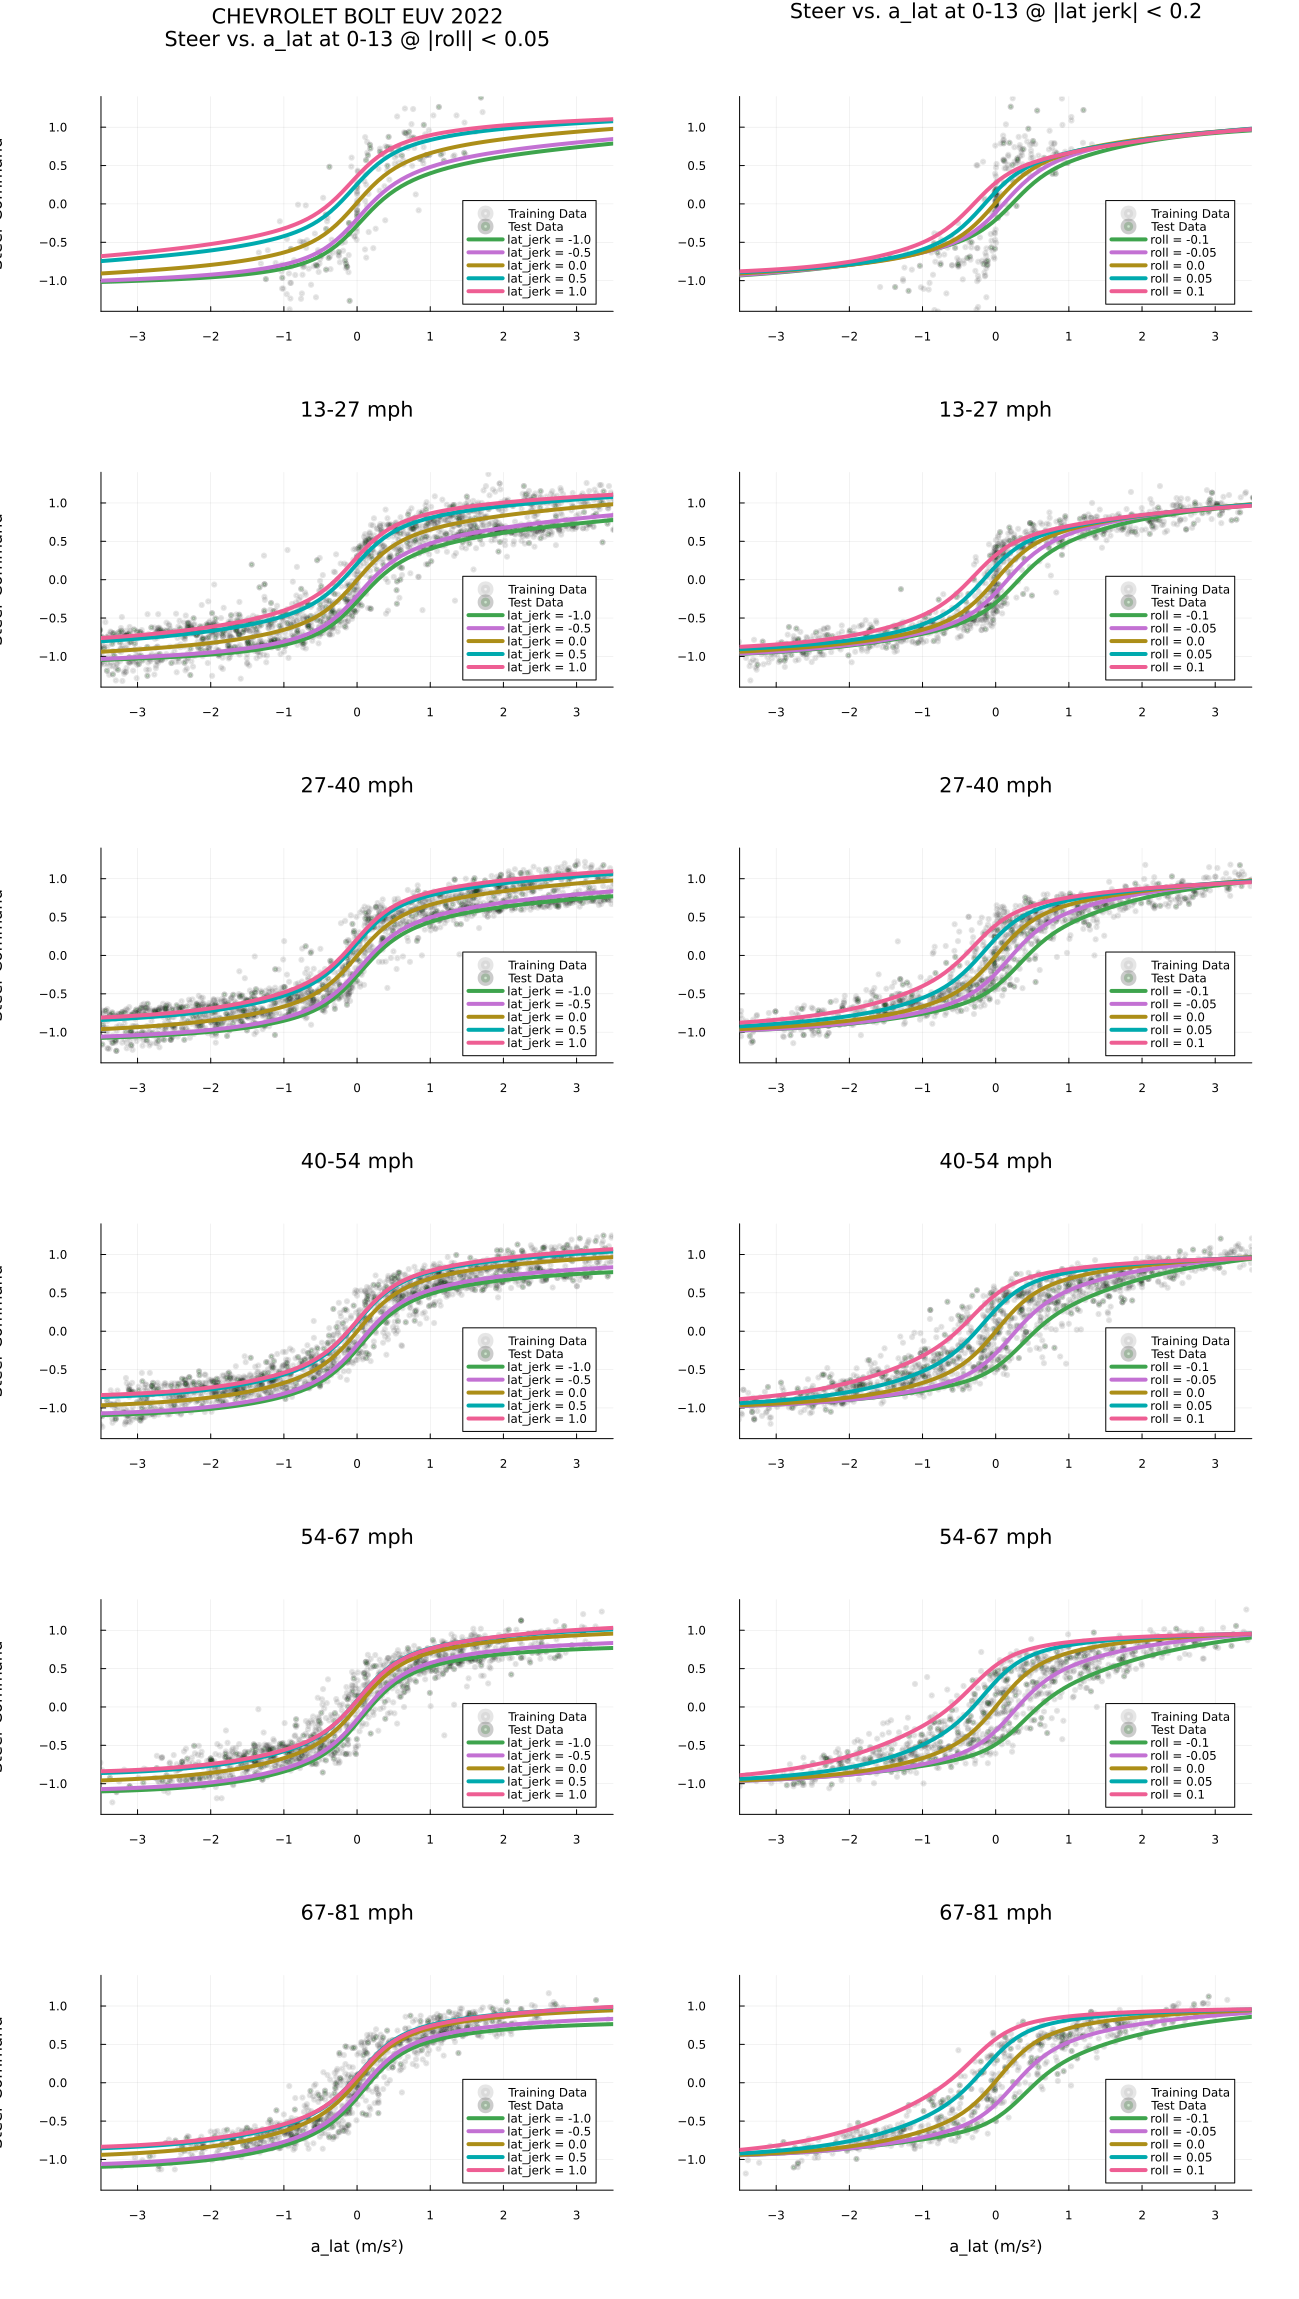
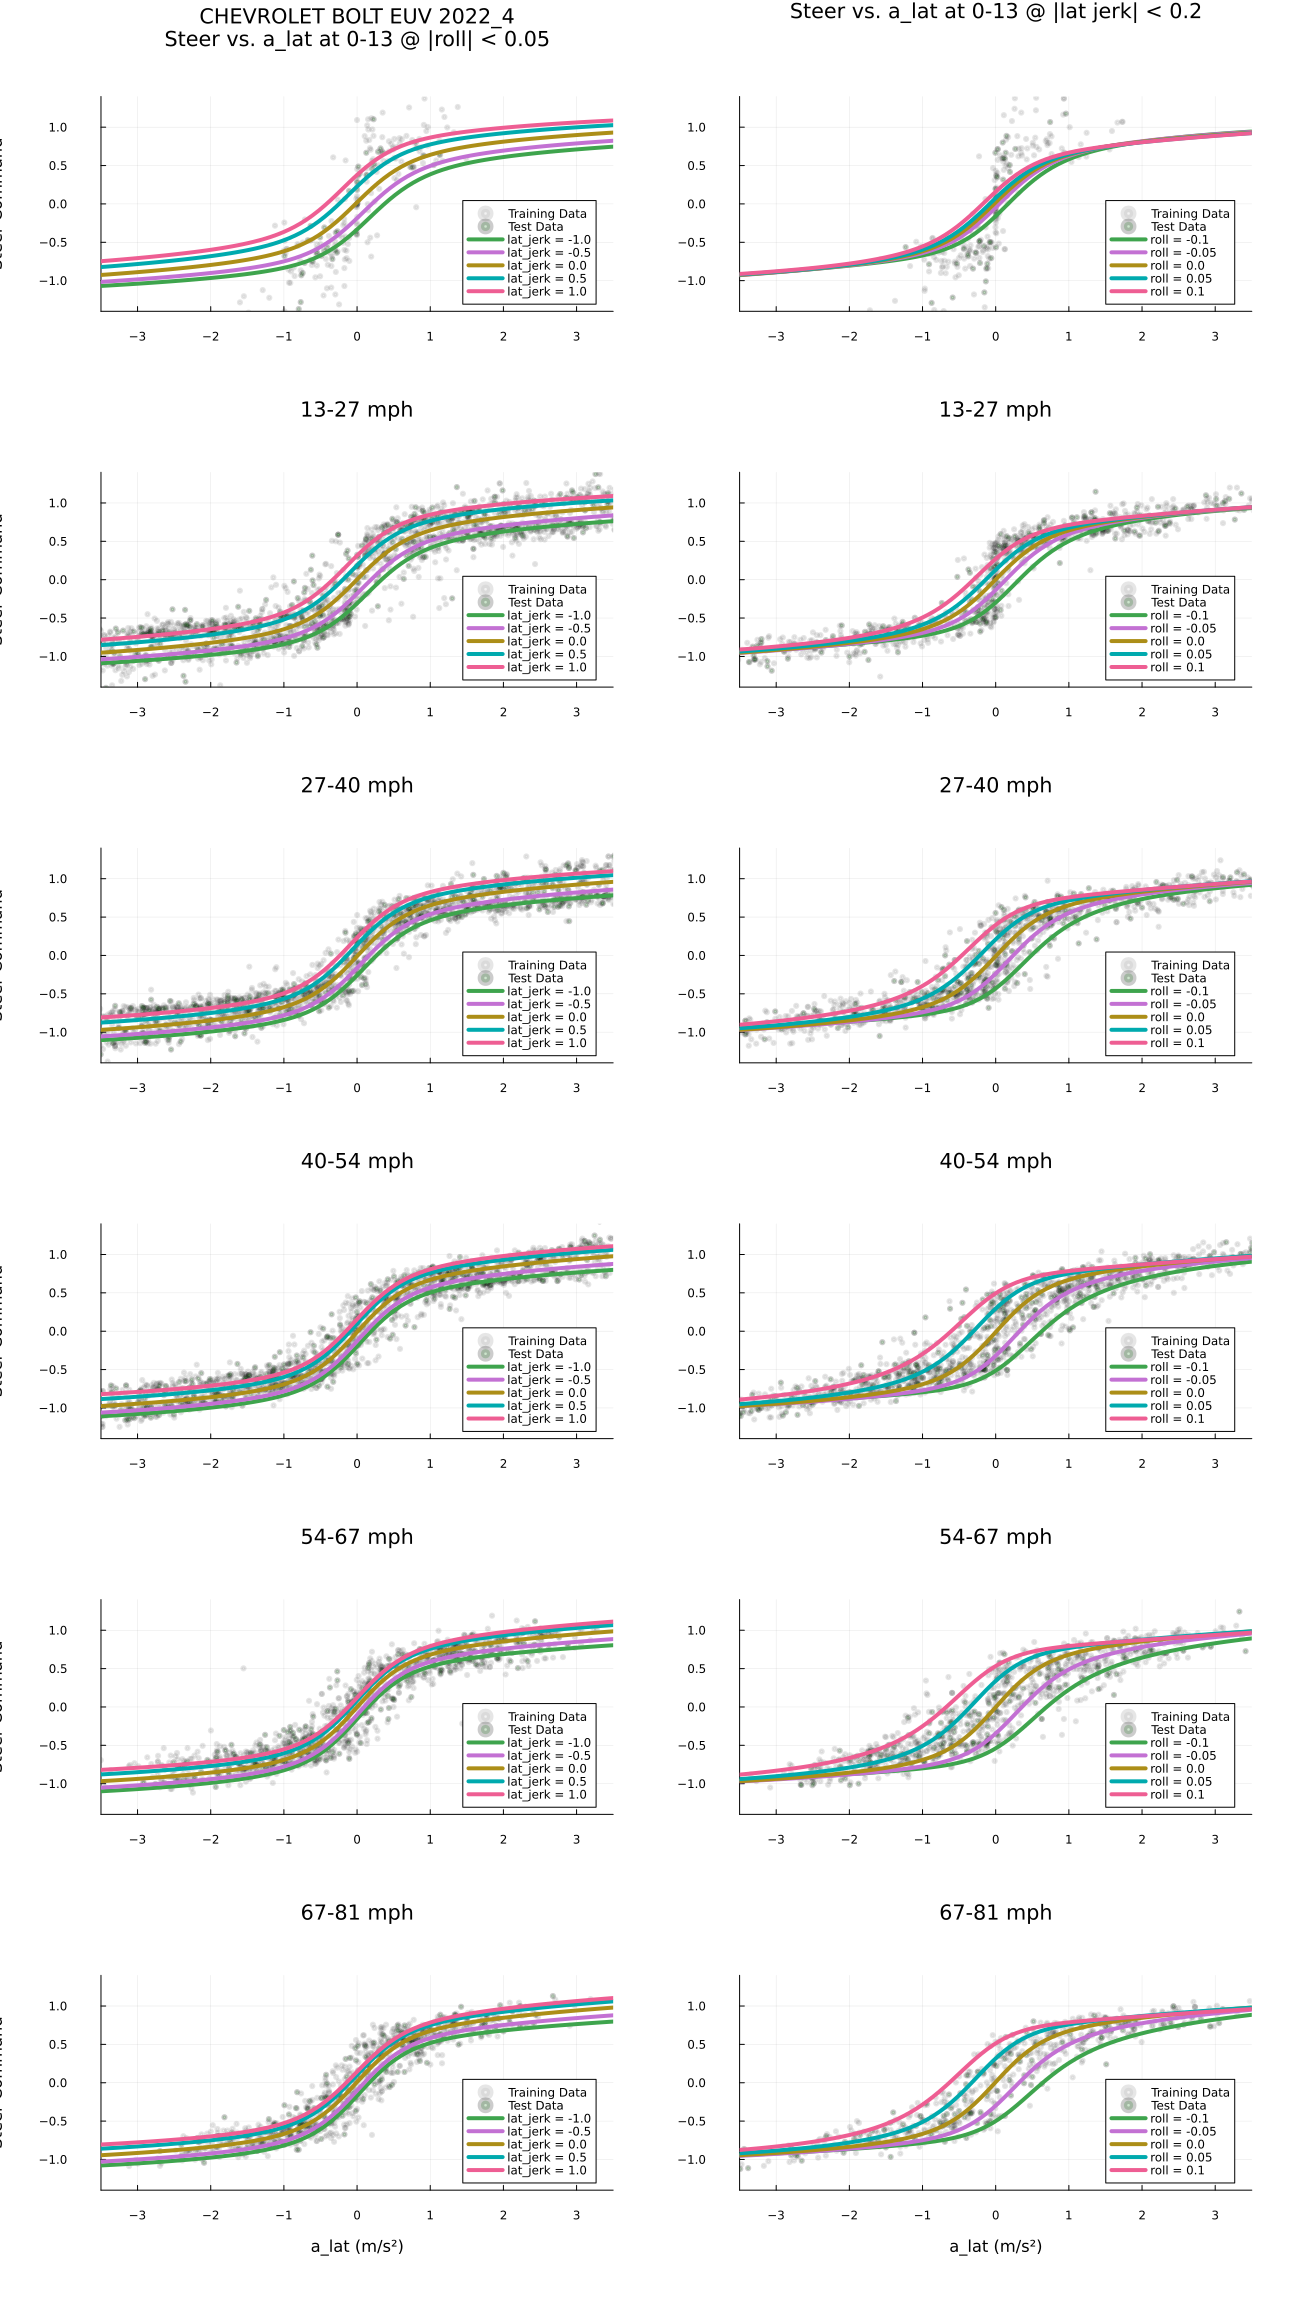
torque nnff: buick lacrosse, bolt EUV (updated), chevy silverado/GMC sierra, chevy suburban, GMC acadia (updated), honda ridgeline, kia ev6, toyota rav4 (2019 hybrid fp), vw golf, vw passat, vw polo, vw tiguan
ridgeline, vw polo, tiquan to torque by default

diff --git a/selfdrive/car/volkswagen/interface.py b/selfdrive/car/volkswagen/interface.py
@@ -115,6 +115,7 @@ class CarInterface(CarInterfaceBase):
     elif candidate == CAR.GOLF_MK7:
       ret.mass = 1397 + STD_CARGO_KG
       ret.wheelbase = 2.62
+      CarInterfaceBase.configure_torque_tune(candidate, ret.lateralTuning)
 
     elif candidate == CAR.JETTA_MK7:
       ret.mass = 1328 + STD_CARGO_KG
@@ -135,6 +136,7 @@ class CarInterface(CarInterfaceBase):
     elif candidate == CAR.POLO_MK6:
       ret.mass = 1230 + STD_CARGO_KG
       ret.wheelbase = 2.55
+      CarInterfaceBase.configure_torque_tune(candidate, ret.lateralTuning)
 
     elif candidate == CAR.SHARAN_MK2:
       ret.mass = 1639 + STD_CARGO_KG
@@ -153,6 +155,7 @@ class CarInterface(CarInterfaceBase):
     elif candidate == CAR.TIGUAN_MK2:
       ret.mass = 1715 + STD_CARGO_KG
       ret.wheelbase = 2.74
+      CarInterfaceBase.configure_torque_tune(candidate, ret.lateralTuning)
 
     elif candidate == CAR.TOURAN_MK2:
       ret.mass = 1516 + STD_CARGO_KG

diff --git a/selfdrive/car/honda/interface.py b/selfdrive/car/honda/interface.py
@@ -253,7 +253,7 @@ class CarInterface(CarInterfaceBase):
       ret.steerRatio = 15.59  # as spec
       ret.lateralParams.torqueBP, ret.lateralParams.torqueV = [[0, 4096], [0, 4096]]  # TODO: determine if there is a dead zone at the top end
       tire_stiffness_factor = 0.444
-      ret.lateralTuning.pid.kpV, ret.lateralTuning.pid.kiV = [[0.38], [0.11]]
+      CarInterfaceBase.configure_torque_tune(candidate, ret.lateralTuning)
 
     elif candidate == CAR.INSIGHT:
       ret.mass = 2987. * CV.LB_TO_KG + STD_CARGO_KG
